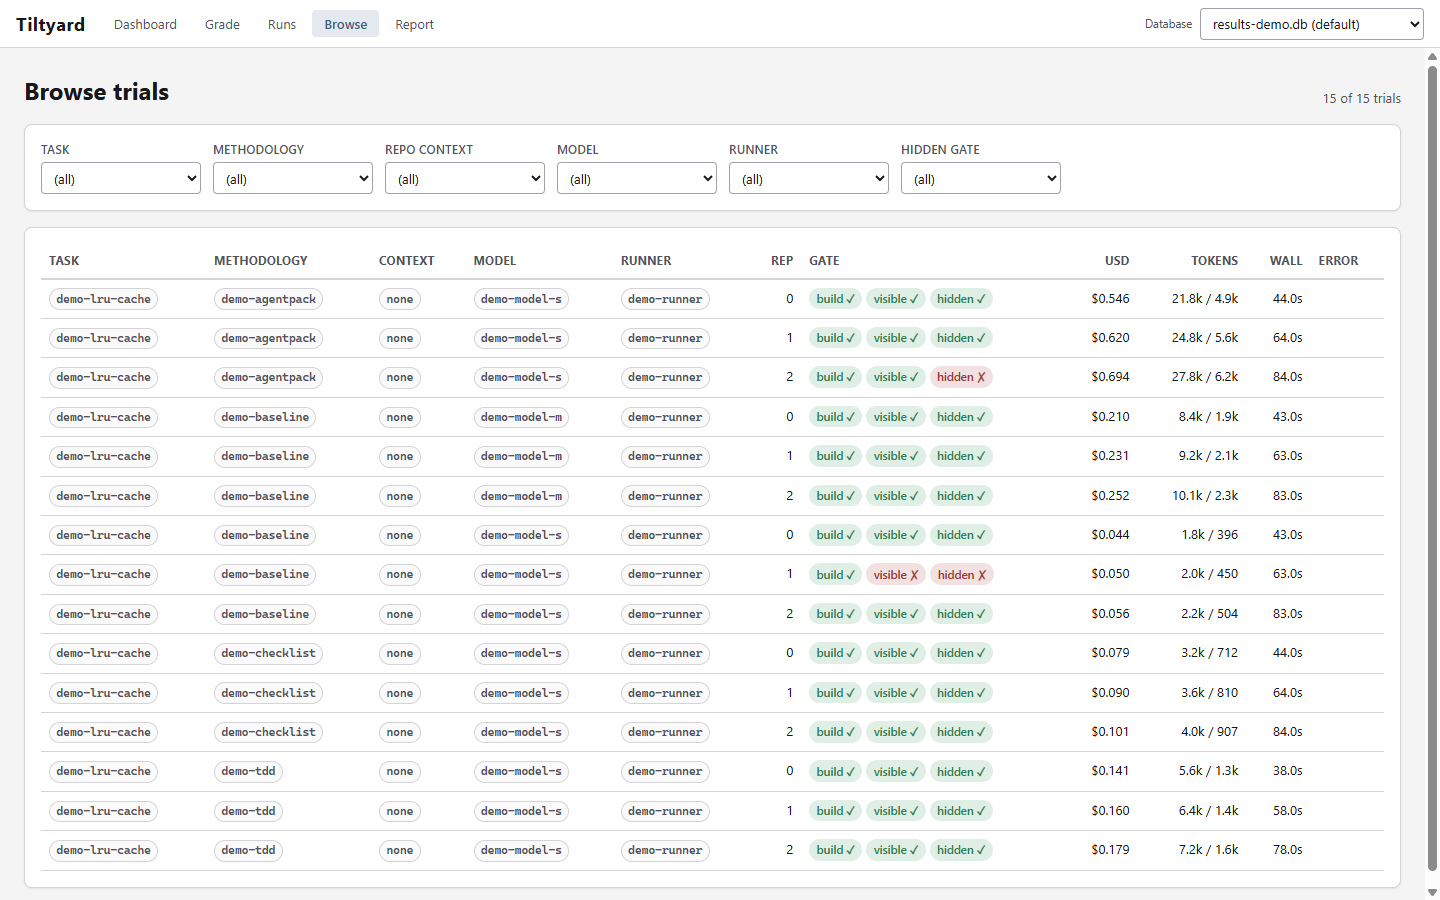
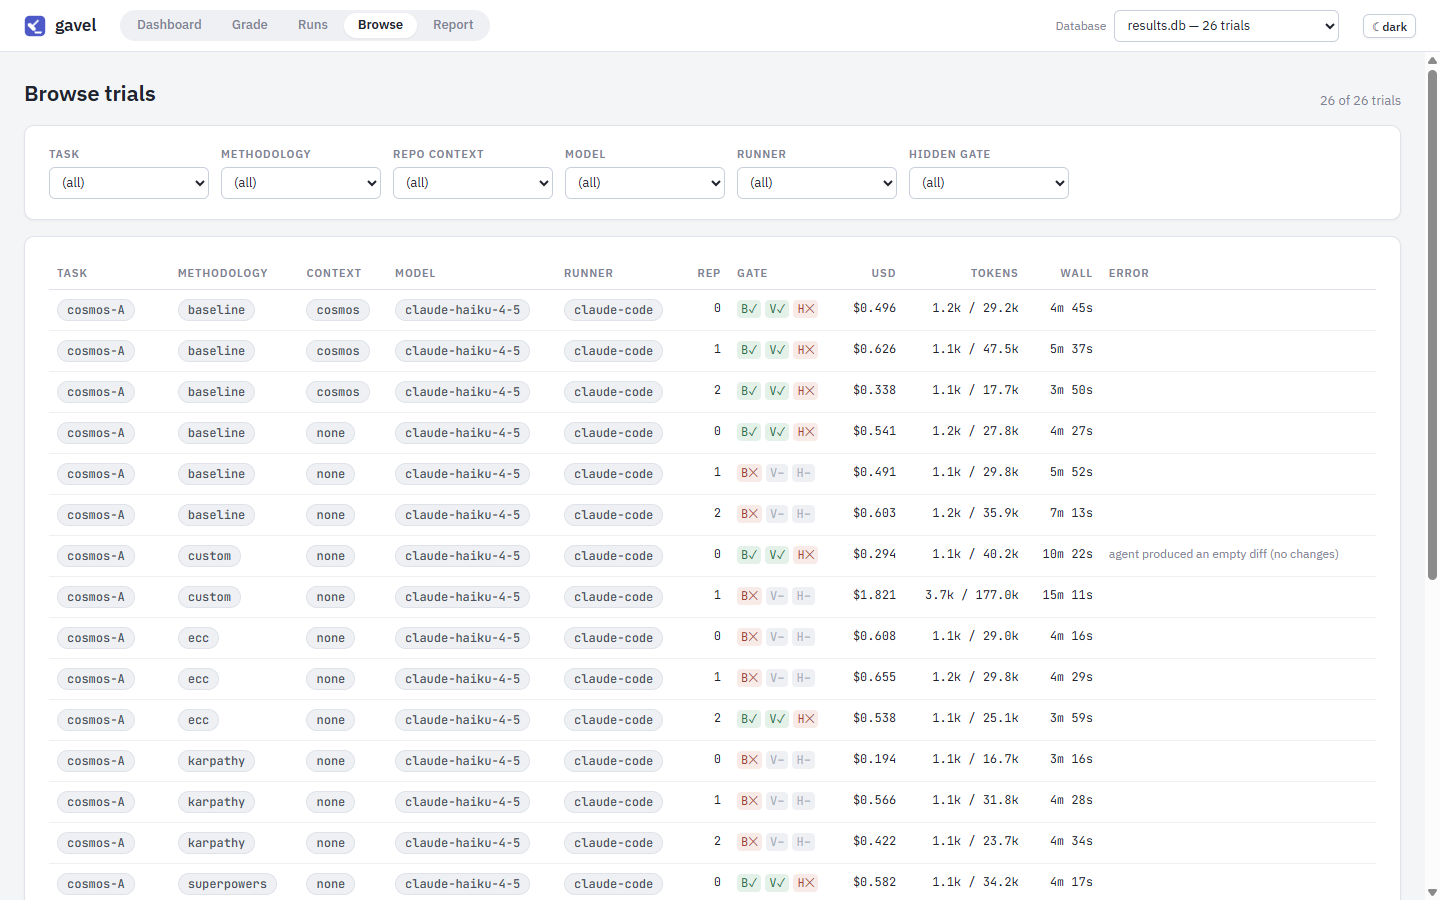
docs: phase-2 close-out — final screenshots, convergence record, README truth
Final Gavel-design screenshots (real cosmos-B data for the session shots,
incl. the redacted gate log and dark mode) refresh docs/design/screenshots
and both README images (grading-compare, report-pareto now shows the
restyled artifact). README test counts corrected (305 fast + 18
integration) and the UI paragraph mentions themes/local assets/tokens.
Session log records rounds 13-14 and the convergence summary across all
14 critic rounds; the cold-reader final report gains the verification
totals and the mid-effort user-review policy changes.

diff --git a/docs/ui-revamp-report.md b/docs/ui-revamp-report.md
@@ -105,19 +105,31 @@ means paid/spend only.
 
 ## Verification
 
-- Full fast suite: **299 passed** (`pytest`; 1 env-gated test deselected).
-- Browser regression suite: **15 passed**
+- Full fast suite: **305 passed** (`pytest`; 1 env-gated test deselected).
+- Browser regression suite: **18 passed**
   (`pytest -m integration tests/test_ui_playwright.py`) — measured pane
   equality with 600-char lines, line-number tracking at four scroll
-  offsets, three-way alignment, per-axis blinding on the full rendered
-  DOM, an 18-pair keyboard marathon with a mid-session reload, the
-  reveal-closes-session rule, and the spend gate.
-- Convergence: fresh-context critic agents (no session memory, Playwright
-  access, the full definition of done) reviewed the live app after each
-  phase. Phase-2 pass 1 found 2 majors (portal-clipped hover cards; a
-  grid `min-width:auto` page overflow) — both fixed and re-measured.
-  Iteration continued until two consecutive passes found nothing above
-  minor polish.
+  offsets, sticky gutters AND file/hunk headers under horizontal scroll,
+  full-width open log expanders with three logs per side, three-way
+  alignment, per-axis blinding on the full rendered DOM, worktree-hash and
+  timing scrubbing in blind logs, the file navigator landing both panes
+  exactly, an 18-pair keyboard marathon with a mid-session reload, the
+  reveal-confirmation rule, plan invalidation, and the spend gate.
+- Convergence: **14 fresh-context critic rounds** (no session memory,
+  Playwright access, the full definition of done, later rounds with an
+  explicit human-eyeball mandate and real-database usage) reviewed the
+  live app. Every finding was fixed or explicitly accepted with reasoning;
+  iteration stopped when two consecutive rounds (13 and 14) found nothing
+  above minor polish. Highlights of what the rounds caught: a bare GET
+  that irreversibly closed sessions, browser-cached shells serving deleted
+  bundles, a log-expander fix that demo data had masked, and two
+  deliberate-join deblinding channels (worktree hashes, machine-timing
+  lines) — all closed.
+- A mid-effort live review by the project owner redirected two policies:
+  spend metrics are hidden during blind judging on every axis (not just
+  model/runner), and testing must exercise real measurement data, not just
+  the synthetic demo — which immediately surfaced bugs the demo had
+  hidden.
 
 ## Explicitly deferred (and why)
 

diff --git a/docs/ui-revamp-log.md b/docs/ui-revamp-log.md
@@ -465,6 +465,36 @@ Branch: `ui-ux-revamp`. Spec: `recalibration_prompts/28-U1-ui-ux-professionaliza
     keyboard path armed with mismatched db/session — stale data is now
     treated as no-session.
 
+- Fresh critic pass 14: **0 blockers, 0 majors**, 1 minor, 1 nit — clean
+  pass #2. **CONVERGENCE REACHED** (passes 13 + 14 both at minor-polish
+  level; nothing structural; its novel hostile probes — blind-bypass query
+  params, focus-trapped hotkeys, degenerate BT stats, judge-then-inspect,
+  HTML injection via real C# XML-doc tags — all came back clean). Its two
+  items patched anyway: the dotnet "Duration: < 1 ms" form now redacts
+  (leaving it raw next to redacted durations was itself a distinguishing
+  pattern), and Report shows "—" for both mean AND total cost when no cost
+  records exist (was em-dash next to "$0.000").
+- Convergence summary: 14 fresh-context critic rounds total across both
+  phases. Verdicts (blockers/majors): P1-crit 1/1 → 2 majors phase-2 r1 →
+  1 → 1 blocker + 1 → 0/0 → 1 → 0/0(+user round: 3 findings) → 2 → 1 → 1 →
+  1 → 0/0 → 0/0. Every finding fixed or explicitly accepted with
+  reasoning; every fix verified live (real data where the demo could mask
+  it) and locked by a regression test where measurable.
+
+## End of phase 2
+
+- Final state: **305 fast tests + 18 Playwright integration tests green**
+  (1 env-gated deselected). Tree clean on `ui-ux-revamp`.
+- Final screenshots (Gavel design, 1440×900) refreshed in
+  `docs/design/screenshots/`: dashboard, picker with open hover preview,
+  two-way session on REAL cosmos-B data (open redacted gate log, file
+  navigator, blind metrics chip), three-way on real originals, dark-mode
+  session, reveal with BT ranking, runs with the SPEND gate, browse (real
+  26-trial table), trial detail (raw logs), report. README images updated:
+  `grading-compare.png` (real-data session) and `report-pareto.png` (the
+  restyled gavel artifact).
+- Cold-reader final report: `docs/ui-revamp-report.md`.
+
 ## End of phase 1
 
 - Final state: 299 fast tests green + 15 Playwright integration tests green

diff --git a/README.md b/README.md
@@ -112,7 +112,9 @@ grading (with resume), a run launcher with live progress (free self-test
 runners by default; paid runs require an explicit typed confirmation plus a
 cost estimate), a trial browser with full gate logs and costs, and the
 Bradley-Terry ranking report. A database switcher in the top bar moves
-between `results.db`, the demo DB, and any scratch DBs.
+between `results.db`, the demo DB, and any scratch DBs. Light and dark
+themes ship, all assets are local (no network at runtime), and the design
+system (the "Gavel" tokens) lives in `ui/frontend/src/tokens.css`.
 
 Want to see the tool before spending a cent? Seed the synthetic demo:
 
@@ -245,7 +247,7 @@ guessed the same test path. The overwritten agent file is restored after the run
 
 ## Current state
 
-The full pipeline is built and tested (297 fast tests green plus a 14-test
+The full pipeline is built and tested (305 fast tests green plus an 18-test
 Playwright UI suite behind the `integration` marker, 1 env-gated test
 deselected) — engine, 5-axis matrix, three-tier gate, axis-general blind
 grading, Bradley-Terry ranking, API-rate cost, the report command with the
